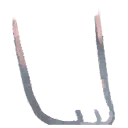
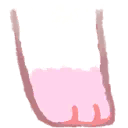
1

diff --git a/cat/cat.js b/cat/cat.js
@@ -22,7 +22,7 @@ function spark() {
         // newDiv.classList.add(randomClass[Math.floor(Math.random() * randomClass.length)]);
         newDiv.style.left = `${randomX}px`;
         newDiv.style.top = `${randomY}px`;
-        newDiv.style.opacity = `${Math.ceil(Math.random() * 50) * 0.03}`; // 透明度
+        newDiv.style.opacity = `${Math.ceil(Math.random() * 50) * 0.02}`; // 透明度
         spark.appendChild(newDiv);
 
         setTimeout(() => {
@@ -39,11 +39,12 @@ window.onload = function() {
     catpart();
     catPosition();
     spark();
+    selectCat();
 }
 
 
 //渲染猫猫的各个部分
-id=1;
+id=5;
 function catpart(){
     const parts = ["head", "body", "tail", "leg-front-left", "leg-front-right", "leg-back-left", "leg-back-right"];
     parts.forEach(function(partId) {
@@ -52,10 +53,20 @@ function catpart(){
         part.style.backgroundImage = "url('asset/cat/" + id + partId + ".png')";
     });
 }
-//切换猫猫
-function changeCat() {
+// 选择猫猫
+function selectCat() {
+    document.getElementById("select_cat").addEventListener("change", function () {
+        if (this.value === "select") return;
+        id = this.value;
+        console.log("选择了" + this.options[id].text);
+        catpart();
+    });
+}
+//随机猫猫
+function randomCat() {
     id = Math.floor(Math.random() * 6) + 1;
     catpart();
+    document.getElementById("select_cat").selectedIndex = 0; // 重置 select cat 选择框
 }
 //抚摸猫猫，播放喵喵声
 function changeHead() {
@@ -135,3 +146,4 @@ function legsAnimation() {
         if (index === 1 || index === 2) { leg.style.animationDelay = "-0.5s"; }
     });
 }
+

diff --git a/cat/cat.html b/cat/cat.html
@@ -25,16 +25,29 @@
         <div id="leg-back-left" class="part leg"></div>
         <div id="leg-back-right" class="part leg"></div>
     </div>
-    <button onclick="changeCat()" style="position: absolute;top: 10px;right: 10px;">Change Cat</button>
+    <button onclick="randomCat()" style="position: absolute;top: 10px;right: 10px;">Change Cat</button>
     <button onclick="redBorder()" style="position: absolute;top: 50px;right: 10px;">Red Border</button>
     <!--<button onclick="mirrorCat()" style="position: absolute;top: 10px;right: 10px;">Mirror Cat</button>-->
     <!--<button onclick="legsAnimation()" style="position: absolute;top: 90px;right: 10px;">Legs Animation</button>-->
     <!--<div style="position: absolute;top: 90px;right: 10px;" id="test1"></div>-->
-</div>
+
+
+<!-- 创建下拉框 -->
+<select id="select_cat">
+    <option value="select">Select a Cat</option>
+    <option value="1">Cloud</option>
+    <option value="2">Nerd</option>
+    <option value="3">Cat(?)</option>
+    <option value="4">Artist</option>
+    <option value="5">Rainbow</option>
+    <option value="6">Sleepy</option>
+</select>
+
+
 <script>
     // var testtext=document.getElementById("test1");
     // testtext.innerText="Hello World";
-
 </script>
+</div>
 </body>
 </html>

diff --git a/cat/cat.css b/cat/cat.css
@@ -62,6 +62,7 @@ body {
 #leg-back-left{top: 95px;left: 30px;z-index: -11;}
 #leg-back-right{top: 100px;left: 20px;z-index: -9;}
 
+/*按钮*/
 button {
     height: 30px;
     width: 100px;
@@ -94,12 +95,7 @@ button:hover::after {
     animation: buttonshake2 0.3s infinite alternate;
 }
 
-
-
-
-
-
-
+/*鼠标拖尾*/
 .spark {
     position: absolute;
     top: 0px;
@@ -131,3 +127,23 @@ button:hover::after {
     animation: fadeoutgreen 0.5s forwards;
 }
 
+/*下拉框*/
+select {
+    position: absolute;
+    top: 10px;
+    left: 10px;
+    width: 100px;
+    height: 30px;
+    color: white;
+    background-color: black;
+    border: 1px solid black;
+    border-radius: 0px;
+}
+option {
+    /*background-color: #f7f7f7;*/
+    /*color: #333;*/
+}
+option:hover {
+    /*background-color: #ccc;*/
+    /*color: #fff;*/
+}
